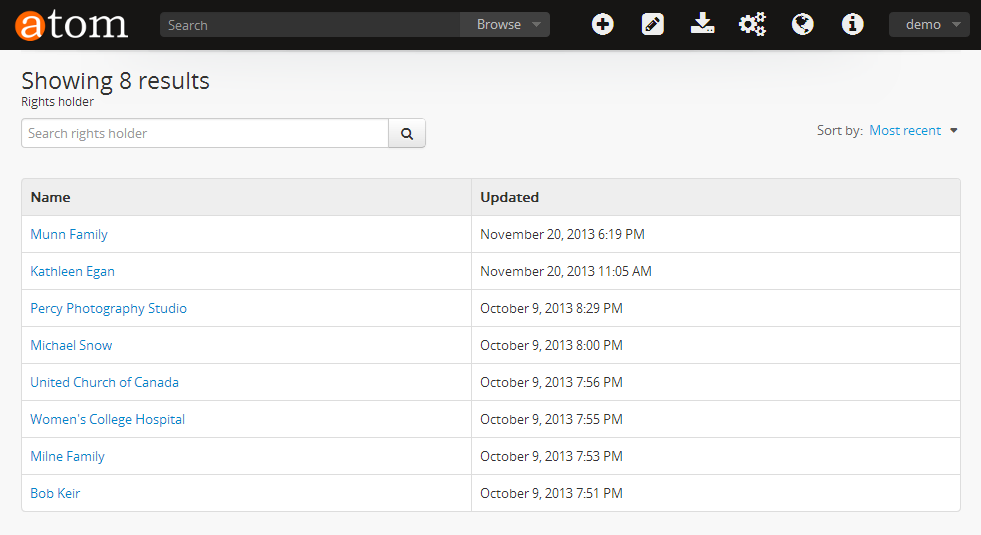
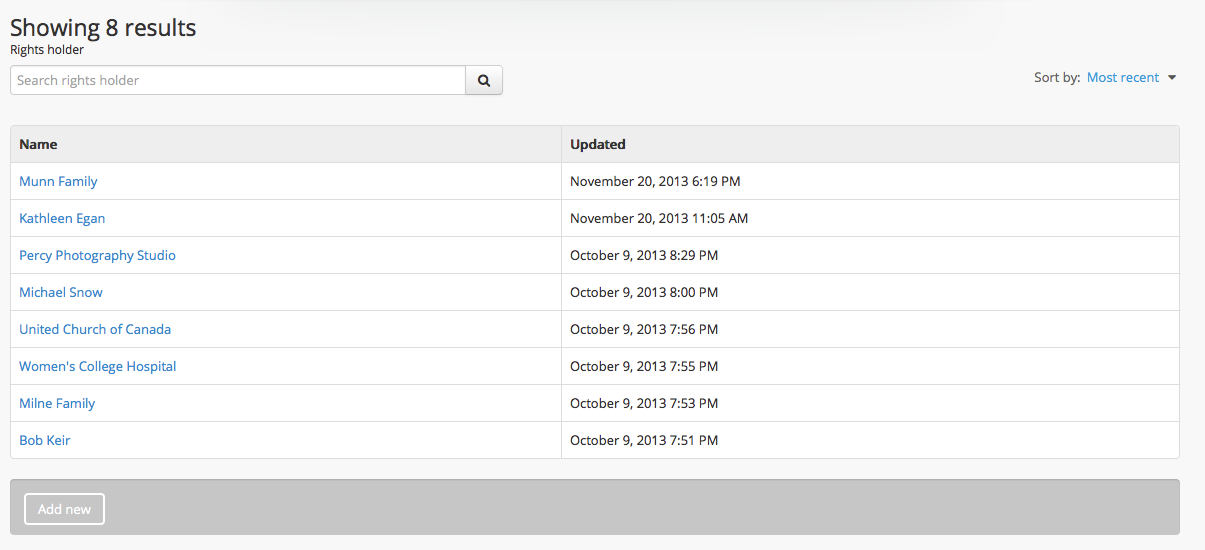
updated glossary add rights holders manage info

diff --git a/user-manual/add-edit-content/rights.rst b/user-manual/add-edit-content/rights.rst
@@ -292,4 +292,55 @@ Add rights to a Digital object
     and you can  see that a Digital object (Reference) rights area has been
     added below the Digital object metadata section.
 
+    Manage Rights holders record
+    ============================
+
+1. Users with editor and admin access permissions, can navigate to
+  the :term:`main menu` located in the AtoM :term:`header bar` and
+   click on the manage menu, then select Rights holders from the
+   drop-down list. AtoM will take you to a browse page for Rights holders.
+
+.. TIP::
+
+   For general information on navigation in AtoM, see:
+   :ref:`Access content <access-content>`. For general information on browse
+   menus in AtoM, see: :ref:`browse`.
+
+2. When you have arrived at the Rights holders records browse page, on the
+   left -side of the screen AtoM provides a dedicated search bar for searching
+   existing rights holders in the system. The list of rights holders can be
+   browsed by "most recent" or "alphabetic".
+
+3. If you click on the hyper-link name of a rights holder, AtoM takes you to
+   the View rights holder page.
+
+4. The View rights holder page lets the authorized user edit and delete the
+   existing rights holder record, or add a new rights holder.
+
+5. If you click on the edit button, AtoM takes you to the Edit rights holder
+   template. There are two areas: the Identity area and the Contact area. In
+   the Identity area there is one data entry field, authorized form of name.
+   In the Contact area there is add new button, which allows you to add a new contact person. If you click on the add new button, AtoM opens a contact information dialogue with three tabs, Main, Physical location and Other details. Add as much information into the Related contact information dialgue and click on the Submit button.
+
+6. Remember to click on the Save button at the bottom of the rights holder
+   page to save all the new information you have added to the rights holder
+   record.
+
+7. If you click on the :term:`Delete button` located at the bottom of the
+   record. AtoM will ask you to confirm that you want to delete the Rights
+   holder record. Click the "Delete" button to delete, or the "Cancel" button to return to Rights holder record :term:`view page`. If you click "Delete," the Rights holder record will be permanently deleted.
+
+
+click on
+   the
+   :term:`Delete button` located in the :term:`button block` located at the
+   bottom of the record.
+3. AtoM will ask you to conform that you want to delete the Donor record.
+   Click the "Delete" button to delete, or the "Cancel" button to return to
+   the Donor record :term:`view page`. If you click "Delete," the Donor
+   record will be permanently deleted.
+
+
+
+
 :ref:`Back to top <rights>`

diff --git a/user-manual/access-content/browse.rst b/user-manual/access-content/browse.rst
@@ -291,5 +291,25 @@ when the donor record was updated.
 When an donor record is clicked, the full record is displayed, including any
 related :term:`accessions <accession record>` and resources.
 
+Browse Rights holders
+-------------
+
+Click on Manage, then on Rights holders.
+
+.. image:: images/browse-rightsholders-all.*
+   :align: center
+   :width: 80%
+   :alt: Browsing all rights holders records.
+
+AtoM will display a list of all rights holders by name as well as
+when the rights holders record was updated.
+
+.. TIP::
+
+   From this screen, users can also search rights holders by name in
+   the search box at the top of the results list. For more information on
+   rights holders record functionality, see :ref:`Rights <rights>`.
+
+When a rights holders record is clicked, the full record is displayed.
 
 :ref:`Back to top <browse>`

diff --git a/user-manual/add-edit-content/donors.rst b/user-manual/add-edit-content/donors.rst
@@ -269,7 +269,7 @@ Delete a donor record
 2. When you have arrived at the Donor record's :term:`view page`, click on the
    :term:`Delete button` located in the :term:`button block` located at the
    bottom of the record.
-3. AtoM will ask you to conform that you want to delete the Donor record.
+3. AtoM will ask you to confirm that you want to delete the Donor record.
    Click the "Delete" button to delete, or the "Cancel" button to return to
    the Donor record :term:`view page`. If you click "Delete," the Donor
    record will be permanently deleted.
